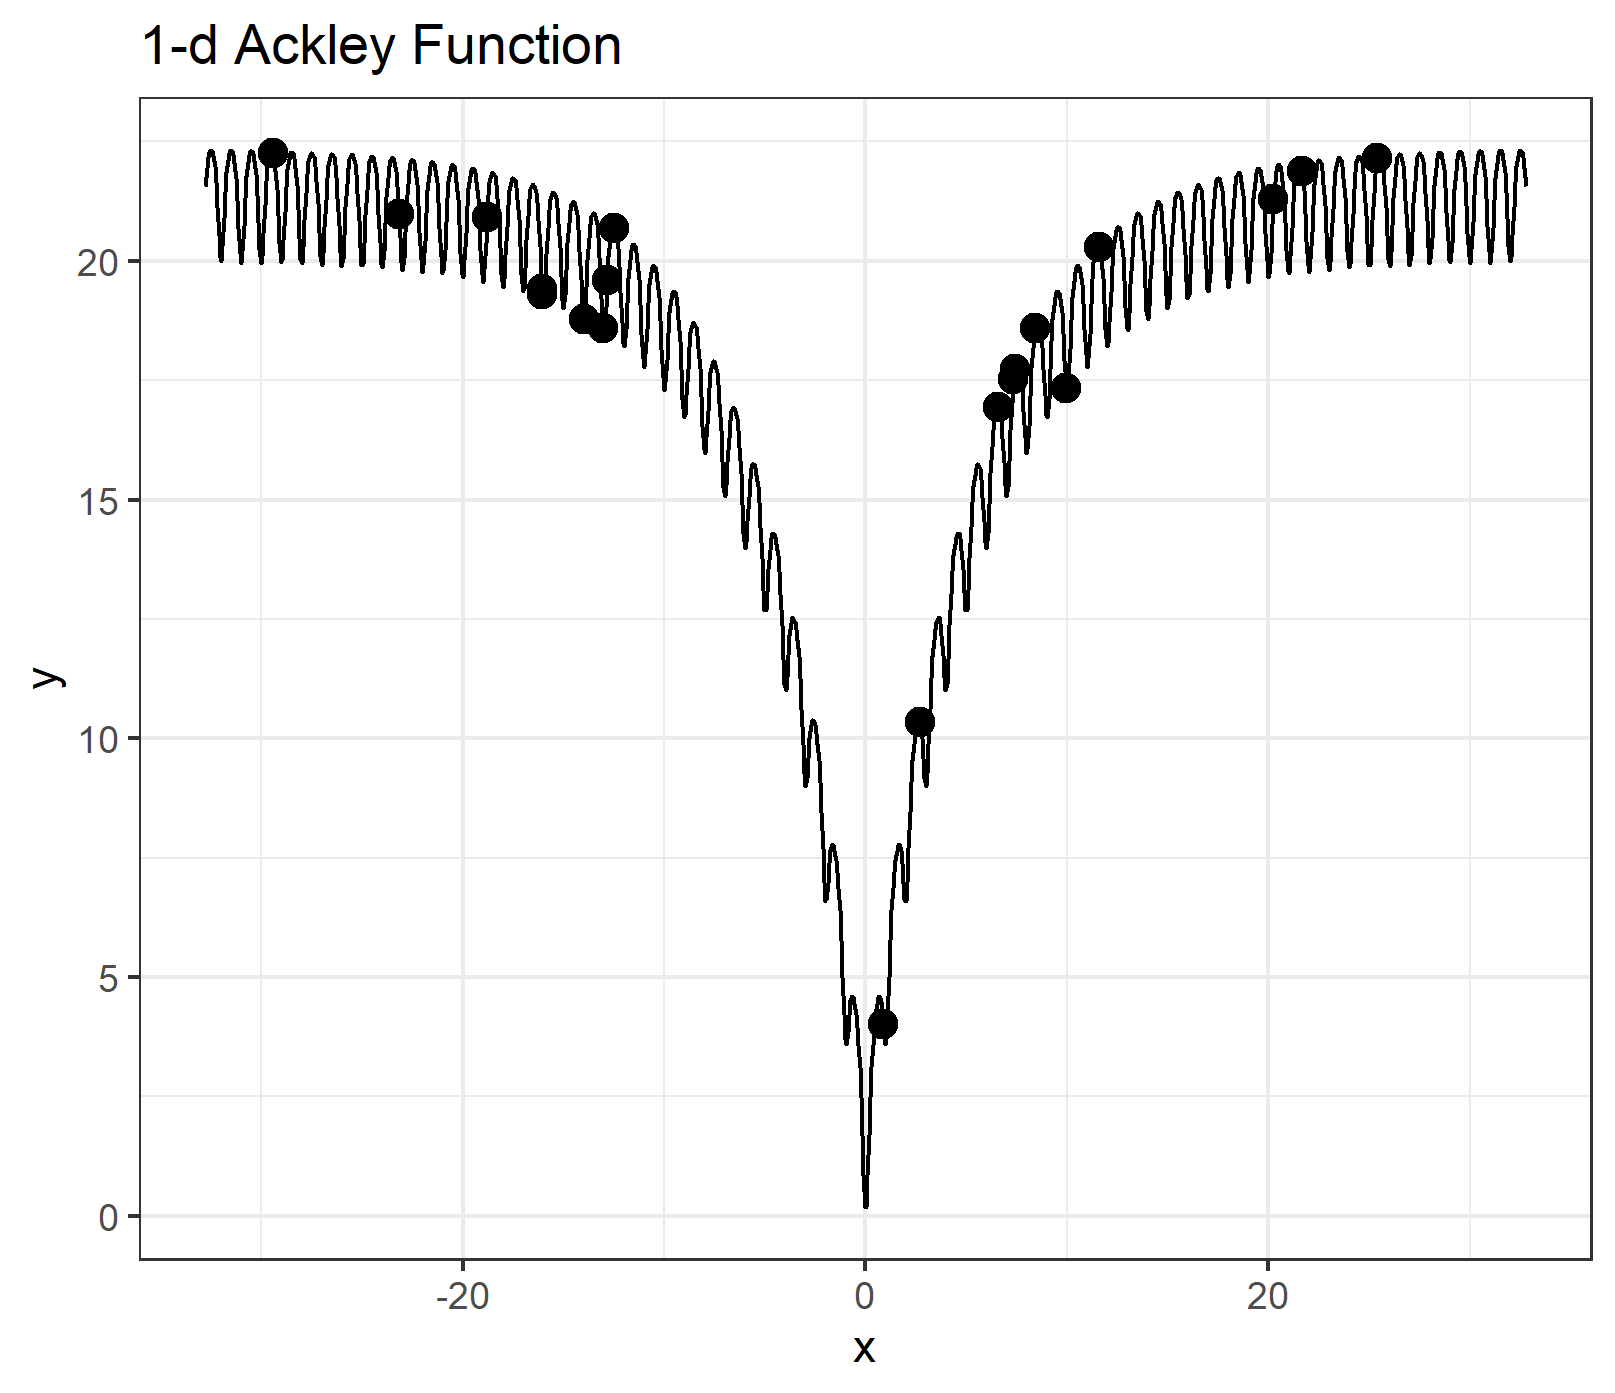
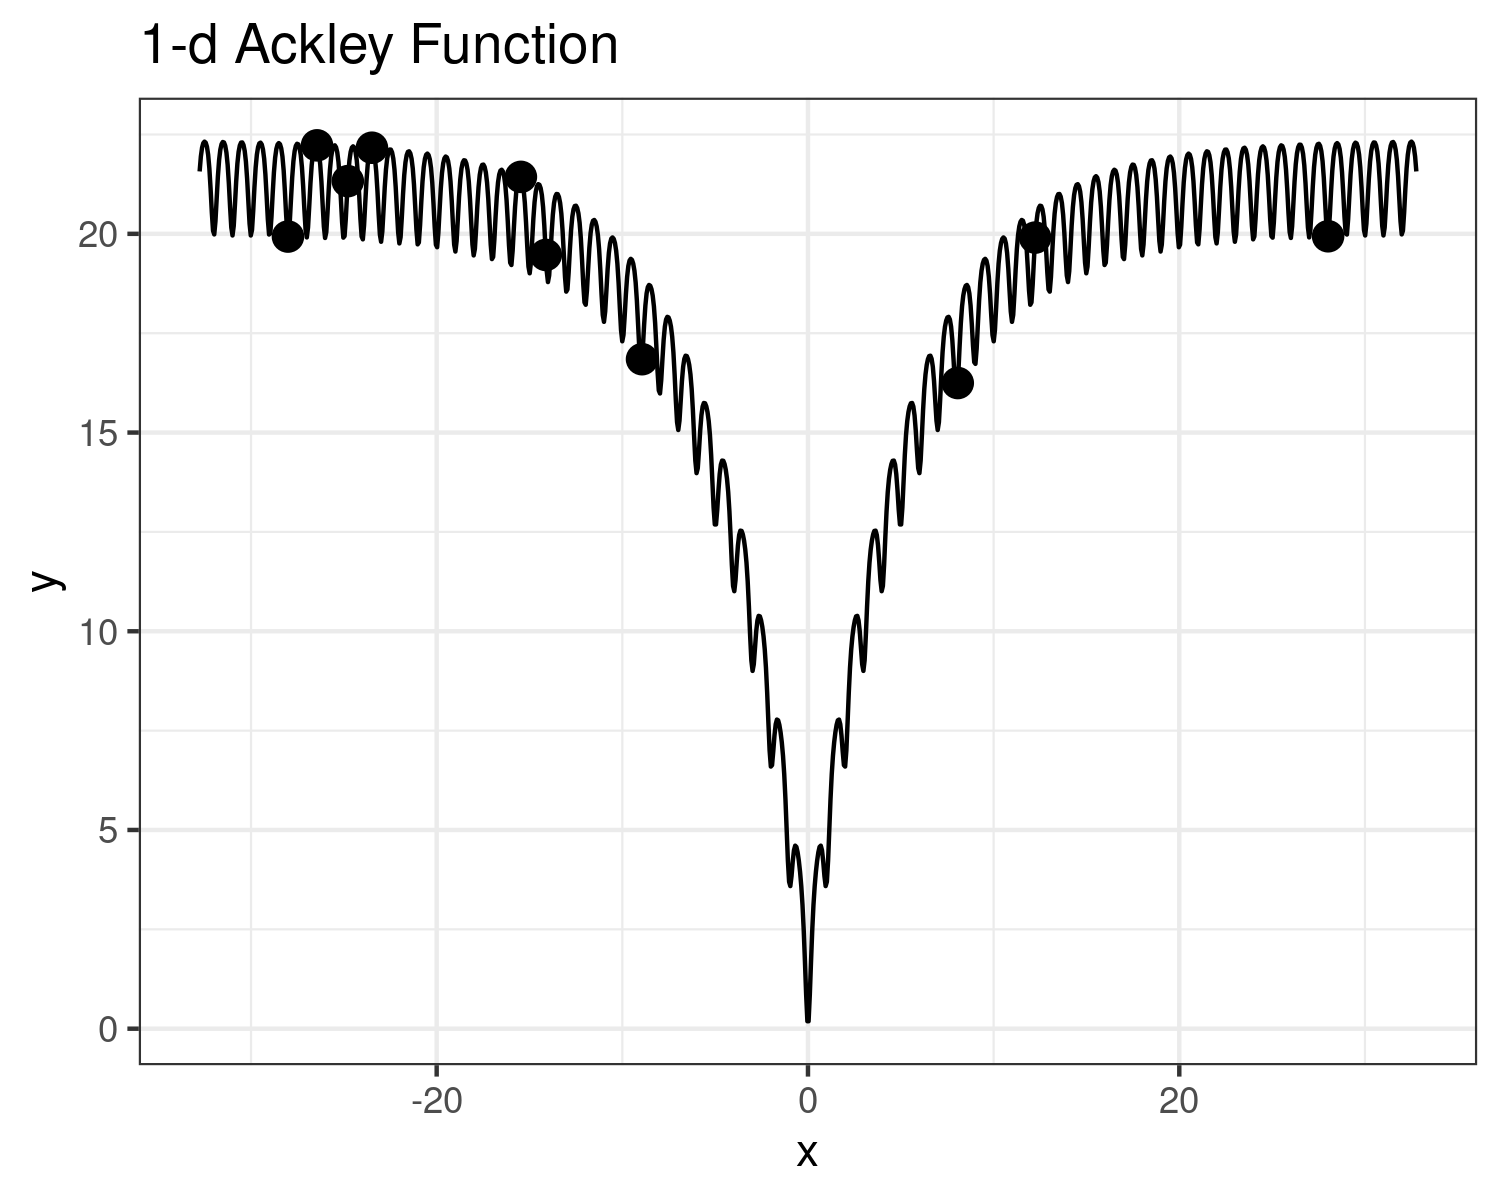
update

diff --git a/slides/08-evolutionary/slides-optim-evolutionary-algorithms-2-ea-numeric.tex b/slides/08-evolutionary/slides-optim-evolutionary-algorithms-2-ea-numeric.tex
@@ -5,7 +5,7 @@
 \input{../../latex-math/basic-ml}
 
 
-\newcommand{\titlefigure}{figure_man/selection.png}
+\newcommand{\titlefigure}{figure_man/1dim-ackley-func-selection.png}
 \newcommand{\learninggoals}{
 \item Recombination for Numeric
 \item Mutation for Numeric
@@ -41,6 +41,9 @@ $$
 
 \vspace*{-0.3cm}
 \begin{figure}
+  \vspace*{-0.3cm}
+  \includegraphics[width=0.5\textwidth]{figure_man/ea_recombination_uniform.png}  
+  % https://docs.google.com/presentation/d/12v81ZaLxJUgXVUBy3VdW0y6q7OKHS_6lFcQym3yeYsg/edit#slide=id.p
   \includegraphics[width=0.3\textwidth]{figure_man/ea_recombination_numeric.pdf}
 \end{figure}
 
@@ -74,7 +77,7 @@ In the following, a (simple) EA is shown on the 1-dim Ackley function, optimized
 
 \begin{center}
 \begin{figure}
-  \includegraphics[height = 6cm, width = 7cm]{figure_man/1dim-ackley-func.png}
+  \includegraphics[width=0.6\textwidth]{figure_man/1dim-ackley-func.png}
 \end{figure}
 \end{center}
 
@@ -87,7 +90,7 @@ Randomly init population with size $\mu = 20$.
 
 \begin{center}
 \begin{figure}
-  \includegraphics[height = 6cm, width = 7cm]{figure_man/1dim-ackley-func-2.png}
+  \includegraphics[width=0.6\textwidth]{figure_man/1dim-ackley-func-2.png}
 \end{figure}
 \end{center}
 
@@ -100,7 +103,7 @@ We choose $\lambda = 5$ offspring by neutral selection (red individuals).
 
 \begin{center}
 \begin{figure}
-  \includegraphics[height = 6cm, width = 7cm]{figure_man/neutral-selec.png}
+  \includegraphics[width=0.6\textwidth]{figure_man/1dim-ackley-func-neutral-selec.png}
 \end{figure}
 \end{center}
 
@@ -114,7 +117,7 @@ Using a Gaussian mutation with $\sigma=2$, without a recombination.
 
 \begin{center}
 \begin{figure}
-  \includegraphics[height = 6cm, width = 7cm]{figure_man/gaussian-mutation.png}
+  \includegraphics[width=0.6\textwidth]{figure_man/1dim-ackley-func-gaussian-mutation.png}
 \end{figure}
 \end{center}
 
@@ -128,13 +131,27 @@ We use a $(\mu + \lambda)$ selection. The selected individuals are green.
 
 \begin{center}
 \begin{figure}
-  \includegraphics[height = 6cm, width = 7cm]{figure_man/selection.png}
+  \includegraphics[width=0.6\textwidth]{figure_man/1dim-ackley-func-selection.png}
 \end{figure}
 \end{center}
 
 
 \end{vbframe}
 
+\begin{vbframe}{Example of an evolutionary algorithm}
+
+After $50$ iterations: 
+
+\vspace{0.5cm}
+
+\begin{center}
+\begin{figure}
+  \includegraphics[width=1\textwidth]{figure_man/1dim-ackley-func-final.png}
+\end{figure}
+\end{center}
+
+
+\end{vbframe}
 
 
 \endlecture

diff --git a/slides/08-evolutionary/slides-optim-evolutionary-algorithms-1-ea-intro.tex b/slides/08-evolutionary/slides-optim-evolutionary-algorithms-1-ea-intro.tex
@@ -119,6 +119,7 @@ Encoding of chromosomes is the first step of solving a problem with EAs.  Techni
 
   \begin{figure}
     \includegraphics[width=0.7\textwidth]{figure_man/encoding_binary_numeric.png}
+    % https://docs.google.com/presentation/d/12v81ZaLxJUgXVUBy3VdW0y6q7OKHS_6lFcQym3yeYsg/edit#slide=id.p
   \end{figure}
    %\item Order encoding: Sequence of elements 
   \item Tree encoding: Tree objects
